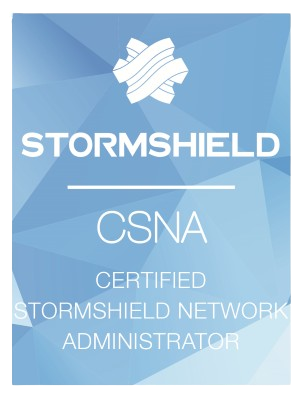
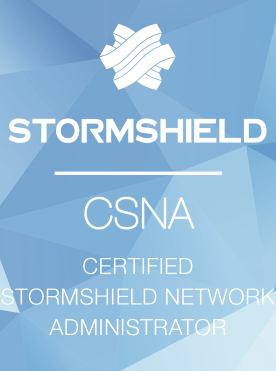
suivi recommendations professeirs

diff --git a/Exp/exp.html b/Exp/exp.html
@@ -18,49 +18,56 @@
     <div class="timeline">
       <div class="timeline-item">
         <div class="timeline-content">
+          <h2 style="color: #e6e6fa;">Alternance Pôle Universitaire de Vichy</h2>
+          <div style="color: #e6e6fa;" class="date">2024-2025</div>
+          <img src="https://www.vichy-communaute.fr/wp-content/uploads/2023/01/Vichy-co_Plan-de-travail-1-scaled.jpg" class="img">
+      </div>
+      </div>
+      <div class="timeline-item">
+        <div class="timeline-content">
           <h2>Stage Pôle Universitaire de Vichy</h2>
-          <div class="date">2023</div>
+          <div class="date">5 Semaines</div>
          <p>Depuis le 20 mai 2024, je suis en apprentissage au Pôle universitaire de Vichy. Cette expérience est très enrichissante pour moi, car elle me permet de développer et d'utiliser toutes les connaissances que j'ai acquises au cours de mon parcours professionnel et scolaire.</p>        </div>
       </div>
       <div class="timeline-item">
         <div class="timeline-content">
-          <h2>Entrée en BTS SIO option SISR</h2>
-          <div class="date">2023-2025</div>
+          <h2 style="color: #e6e6fa;">Entrée en BTS SIO option SISR</h2>
+          <div style="color: #e6e6fa;" class="date">2023-2025</div>
           <a href="../BtsSio/Btssio.html">Info sur le BTS SIO</a>
         </div>
       </div>
       <div class="timeline-item">
         <div class="timeline-content">
-          <h2>Bac Professionnel Système Numérique</h2>
-          <div class="date">2020-2023</div>
+          <h2 style="color: #e6e6fa;">Bac Professionnel Systèmes Numériques</h2>
+          <div style="color: #e6e6fa;" class="date">2020 - 2023</div>
           <p>Obtention en 2023 du Bac Pro SN - Option Audiovisuels, réseau et équipements domestiques (ARED) mention Bien</p>
         </div>
       </div>
       <div class="timeline-item">
         <div class="timeline-content">
           <h2>Stage Pôle Universitaire de Vichy</h2>
-          <div class="date">2023</div>
+          <div class="date">2 Mois</div>
           <p>Stage enrichissant en entreprise, où j'ai consolidé mes compétences en réseau informatique, ouvrant ainsi de nouvelles perspectives pour mon avenir professionnel</p>
         </div>
       </div>
       <div class="timeline-item">
         <div class="timeline-content">
           <h2>Stage Maintenance informatique</h2>
-          <div class="date">2022</div>
+          <div class="date">2 Mois</div>
           <p>Stage interessant au sein d'une boutique de maintenance informatique, où j'ai acquis beaucoup d'experiences et de bonne pratique dans le depannage informatique.</p>
         </div>
       </div>
       <div class="timeline-item">
         <div class="timeline-content">
           <h2>Stage Agence de Communication</h2>
-          <div class="date">2021</div>
+          <div class="date">6 Semaines</div>
           <p>Stage interessant au sein d'une agence de communication, où j'ai acquis une experience significative en design et graphisme.</p>
         </div>
       </div>
       <div class="timeline-item">
         <div class="timeline-content">
           <h2>Stage a l'Hotel d'agglomeration de Vichy Communaute</h2>
-          <div class="date">2019</div>
+          <div class="date">1 Mois</div>
           <p> Mon premier vrai stage en informatique. C'est cette experience qui a confirmé mon envie de faire carrière et de poursuivre mes études dans ce domaine.
           </p>
         </div>

diff --git a/BtsSio/Btssio.html b/BtsSio/Btssio.html
@@ -7,6 +7,7 @@
     <link href="https://fonts.googleapis.com/css2?family=Fjalla+One&family=Montserrat:wght@300;400;600&display=swap" rel="stylesheet">
     <link rel="stylesheet" href="Btssio.css">
 </head>
+
 <body>
     <div class="background"></div>
     <div class="page-container">
@@ -21,7 +22,7 @@
             </section>
 
             <section>
-                <h2>Le BTS SIO Est Structuré En Deux Options :</h2>
+                <h2>Le BTS SIO est composé de deux options :</h2>
                 <ul>
                     <li><strong>Option "Solutions d'infrastructure, systèmes et réseaux" (SISR) :</strong> Cette option forme les étudiants à la gestion des infrastructures informatiques, à la mise en place et à la maintenance des réseaux, des systèmes et des services associés.</li>
                     <li><strong>Option "Solutions logicielles et applications métiers" (SLAM) :</strong> Cette option met l'accent sur le développement, la mise en place et la maintenance des applications informatiques, ainsi que sur l'intégration des solutions logicielles adaptées aux besoins métiers des organisations.</li>
@@ -36,11 +37,11 @@
                     <img src="btssio3.png" alt="Certification 2">
                     <img src="btssio4.png" alt="Certification 3">
                 </div>
-                <p>Le lycée Albert Londres possède plusieurs partenariats avec des entreprises tels que Cisco, Stormshield, VMWare et Microsoft, ce qui permet aux apprenants d'avoir accès à un très large panel d'outils et de formations favorisant leur apprentissage.</p>
+                <p>Le lycée Albert Londres possède plusieurs partenariats avec des entreprises tels que Cisco, Stormshield et Microsoft, ce qui permet aux apprenants d'avoir accès à un très large panel d'outils et de formations favorisant leur apprentissage.</p>
             </section>
 
             <section>
-                <h2>Le lycée technologique Albert Londres</h2>
+                <h2>Le lycée général Albert Londres</h2>
                 <p>Le lycée Albert Londres, situé à Vichy, est un établissement réputé pour la qualité de son enseignement. Je l'ai choisi car les enseignants compétents et les ressources pédagogiques permettent de développer nos compétences dans des conditions optimales.</p>
                 <img src="lycee.jpg" alt="Lycée Albert Londres" class="lycee-image">
             </section>

diff --git a/Perso/Perso.html b/Perso/Perso.html
@@ -6,20 +6,12 @@
     <title>À Propos de Moi</title>
     <link href="https://fonts.googleapis.com/css2?family=Roboto:wght@400;700&family=Poppins:wght@600&display=swap" rel="stylesheet">
     <link rel="stylesheet" href="Perso.css">
-    <style>
-        .cv-container {
-            display: flex;
-            justify-content: center;
-            margin-top: 2rem;
-        }
-        .cv-embed {
-            width: 100%;
-            height: 800px; /* Increased height */
-            max-width: 800px; /* Maximum width */
-            border: none;
-        }
-    </style>
+
+
+
 </head>
+
+
 <body>
     <div class="page-container">
         <header>
@@ -29,7 +21,10 @@
         <main>
             <section>
                 <h2>Qui suis-je ?</h2>
-                <p>Je m'appelle Côme, j'ai 20 ans et je suis actuellement en BTS SIO. Je vais bientôt débuter mon alternance au pôle universitaire de Vichy. Depuis mon plus jeune âge, l'informatique a toujours été ma passion. C'est pourquoi j'ai choisi de me spécialiser dans un premier temps en suivant un bac professionnel systèmes numériques, en option audiovisuel, réseau et équipements domestiques. Mon objectif était à l'époque de travailler dans le domaine de l'audiovisuel ou du graphisme.</p>
+                <p>Je m'appelle Côme, j'ai 20 ans et je suis actuellement sous status d'apprentissage en <a style="color: aqua;" href="../BtsSio/Btssio.html">BTS SIO</a> au Pôle Universitaire de Vichy.
+                    Depuis mon plus jeune âge, l’informatique me passionne. C’est cette passion qui m’a conduit à me spécialiser en obtenant un bac professionnel en systèmes numériques, 
+                    avec une option en audiovisuel, réseau et équipements domestiques. À l’époque, mon objectif était de travailler dans le domaine de l’audiovisuel ou du graphisme.
+                </p>
             </section>
 
             <section>

diff --git a/Exp/exp.css b/Exp/exp.css
@@ -3,7 +3,7 @@ body, html {
 	padding: 0;
 	font-family: 'Montserrat', sans-serif;
 	background: #0d1117;
-	color: #f1f3f5;
+	color: #ffffff;
 	flex-direction: column;
 	justify-content: flex-start;
 	align-items: center;
@@ -86,17 +86,17 @@ body, html {
   
   .timeline-content p, .timeline-content a {
 	margin-bottom: 0;
-	color: #e1f8dc;
+	color: #ffffff;
   }
   
   a {
-	color: #c9fbb6;
+	color: #ffffff;
 	text-decoration: none;
 	transition: color 0.3s ease;
   }
   
   a:hover {
-	color: #a7d7a0;
+	color: #000000;
   }
   
   nav {
@@ -113,7 +113,7 @@ body, html {
   }
   
   nav a {
-	color: #c9fbb6;
+	color: #ffffff;
 	text-decoration: none;
 	font-size: 1.2rem;
 	padding: 0.5rem 1rem;
@@ -122,7 +122,7 @@ body, html {
   }
   
   nav a:hover {
-	background-color: #c9fbb6;
+	background-color: #ffffff;
 	color: #2c3a66;
   }
   
@@ -144,5 +144,22 @@ body, html {
 	  padding: 1rem;
 	}
 	
+  }
+  
+  img {
+    background-color: #f0f0f0;
+    border-radius: 10px;
+    overflow: hidden;
+    box-shadow: 0 4px 6px rgba(0, 0, 0, 0.1);
+    margin-top: 2%;
+    max-width: 50%;
+    height: auto;
+    transition: transform 0.3s ease, box-shadow 0.3s ease; /* Smooth transition for transform and box-shadow */
+  }
+  
+  img:hover {
+    transform: scale(1.05); /* Enlarge the image by 5% */
+    box-shadow: 0 8px 12px rgba(0, 0, 0, 0.2); /* Larger shadow for more emphasis */
+    z-index: 1; /* Ensures the hovered image appears above others */
   }
   

diff --git a/Projet/MissionAP/AP4.html b/Projet/MissionAP/AP4.html
@@ -20,7 +20,7 @@
     <h2>Contexte :</h2>
     <p>Dans cette mission fictive d'appel d'offres, je suis seul et chargé d'intégrer une société de services
          pour la refonte de l'infrastructure de l'entreprise 
-        BROCKER’INFO. Cette dernière est composée de plusieurs services, notamment le service achat, 
+        BROCKER’INFO. Cette dernière est composée de plusieurs services, notamment les services achat, 
         informatique, administration/comptabilité, réparation et hotline. Dans un premier temps, je
         vais concevoir une maquette à l'aide du logiciel Cisco Packet Tracer, puis la mettre en place 
         physiquement. Pour cela, je dispose de deux commutateurs Catalyst 2950 et d'un routeur Cisco 1841.</p>
@@ -28,9 +28,9 @@
         l'optimisation des flux, la mise en place d'un service de sauvegarde via TFTP, ainsi qu'un accès à 
         Internet.</p>
 
-    <h2>Tâches réalisés :</h2>
+    <h2>Tâches réalisées :</h2>
     
-    <ul>Le fichier final Packet Tracert de notre solution.</ul>
+    <ul>Le fichier final Packet Tracer de notre solution.</ul>
     <ul>Les fichiers de sauvegarde issus des fichiers startup-config du routeur 1841 et des deux commutateurs 2950.</ul>
     <ul>Le tutoriel de présentation, d’installation et d’utilisation du service VTP.</ul>
     <ul>Le tutoriel de présentation, d’installation et d’utilisation du service TFTP.</ul>

diff --git a/Perso/Perso.css b/Perso/Perso.css
@@ -14,6 +14,18 @@ body, html {
     background-color: rgba(13, 17, 23, 0.6); /* Slightly transparent background */
 }
 
+.cv-container {
+    display: flex;
+    justify-content: center;
+    margin-top: 2rem;
+}
+.cv-embed {
+    width: 100%;
+    height: 800px; /* Increased height */
+    max-width: 800px; /* Maximum width */
+    border: none;
+}
+
 header {
     text-align: center;
     margin-bottom: 2.5rem;
@@ -40,6 +52,7 @@ h2 {
 p {
     color: #c9c9c9; /* Slightly darker gray for better contrast */
     margin-bottom: 1.2rem;
+    text-align: justify;
 }
 
 .certification-logos {

diff --git a/Projet/Projet.html b/Projet/Projet.html
@@ -12,7 +12,7 @@
 <body>
   <div class="container">
     <header class="header">
-      <h1>Missions "Atelier Professionnalisant"</h1>
+      <h1>Missions "Atelier de professionnalisation"</h1>
       <h2>Première année de BTS SIO</h2>
     </header>
 

diff --git a/BtsSio/Btssio.css b/BtsSio/Btssio.css
@@ -76,8 +76,8 @@ ul {
 }
 
 .certification-logos img {
-    width: 100px;
-    height: auto;
+    width: 20%;
+    height: 20%;
     transition: transform 0.3s ease;
 }
 
